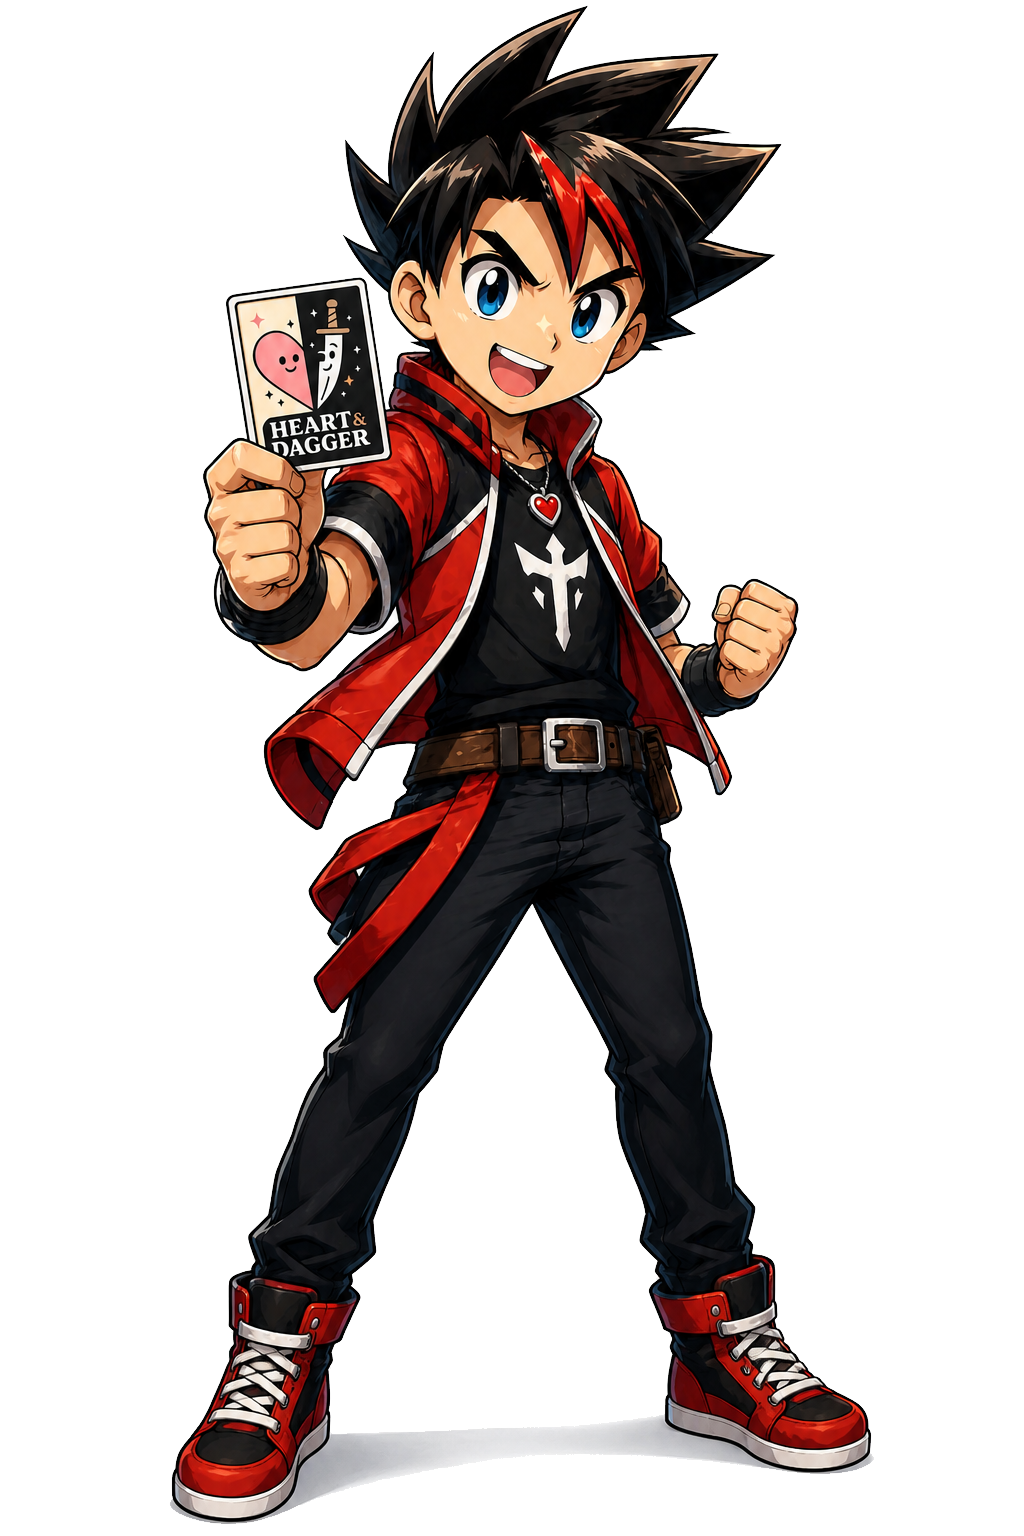
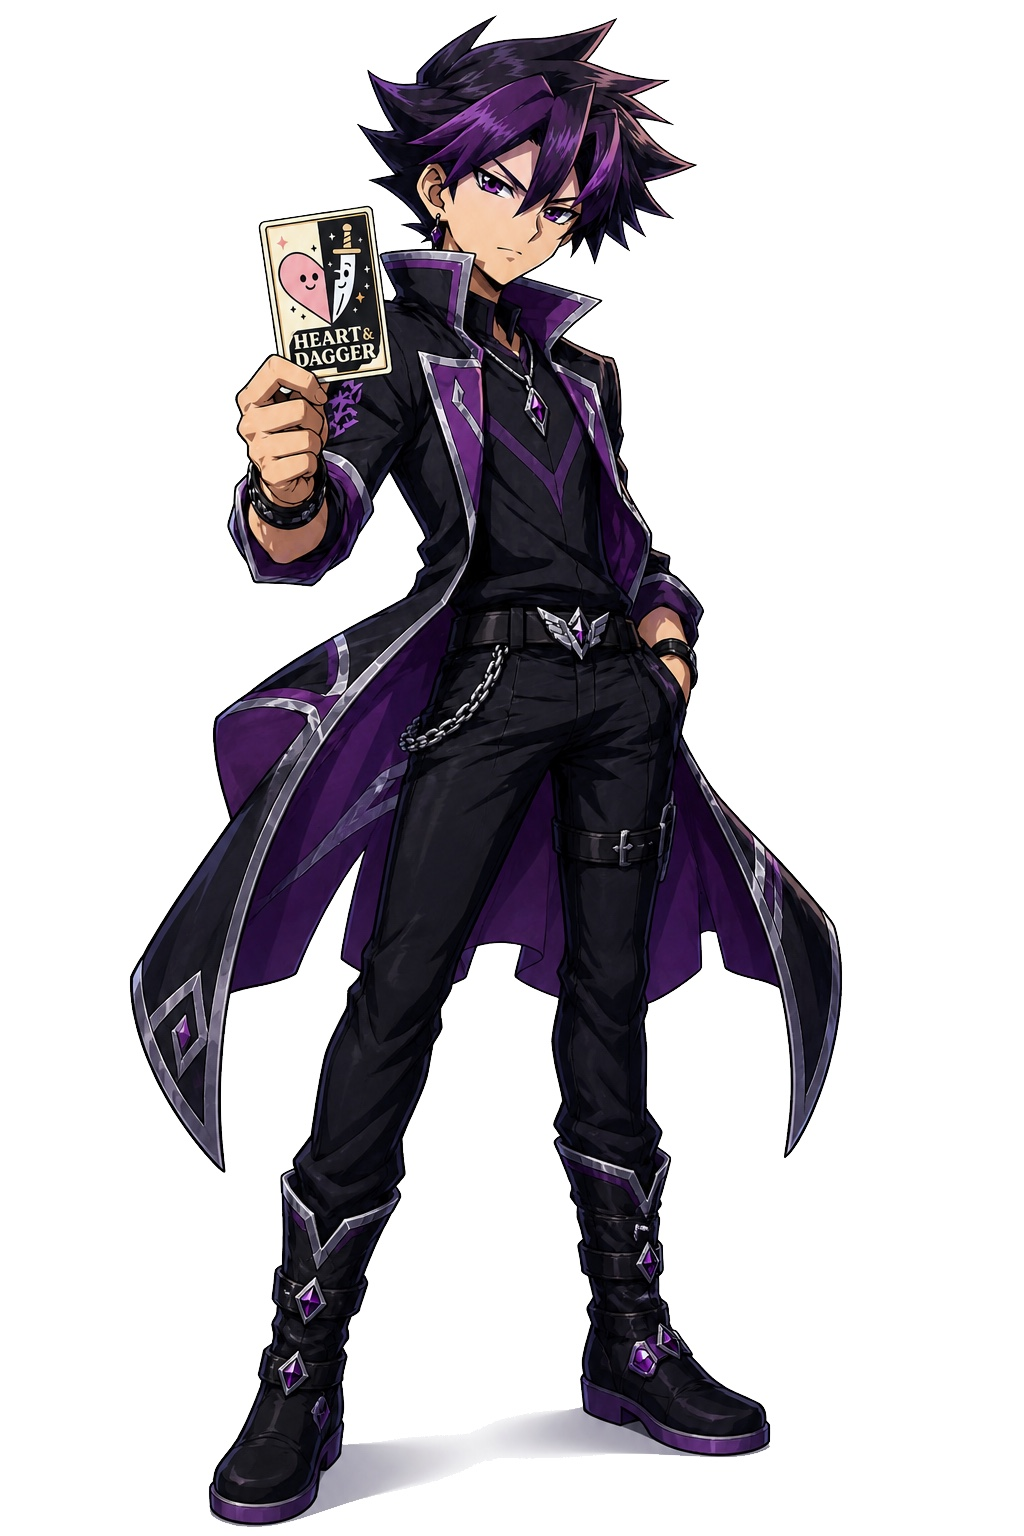
Add files via upload

diff --git a/index.html b/index.html
@@ -52,6 +52,70 @@ html,body{margin:0;width:100%;height:100%;background:#000;font-family:system-ui,
 .stage-status{position:absolute;right:9px;bottom:8px;font-size:11px;background:rgba(0,0,0,.58);border:1px solid rgba(255,255,255,.55);border-radius:999px;padding:4px 8px;text-shadow:0 2px 0 #000;}
 .clear-msg{margin-top:16px;min-height:34px;text-align:center;font-size:18px;font-weight:1000;color:#fff36a;text-shadow:0 2px 0 #000;}
 @media (min-width:680px){.stage-grid{display:grid;grid-template-columns:repeat(2,minmax(0,1fr));gap:12px;}.stage-card{position:relative;aspect-ratio:16/9;border:3px solid rgba(255,255,255,.82);border-radius:18px;background:#111 center/cover no-repeat;box-shadow:0 7px 0 rgba(0,0,0,.55),0 0 18px rgba(255,47,152,.24),inset 0 0 0 2px rgba(0,0,0,.22);color:#fff;padding:0;overflow:hidden;font-weight:1000;cursor:pointer;touch-action:manipulation;}}
+
+.story-actions{
+  display:flex;
+  justify-content:center;
+  gap:12px;
+  margin:10px 0 16px;
+}
+.howto-btn{
+  border:3px solid #111;
+  border-radius:999px;
+  background:#fff7d7;
+  color:#1b1208;
+  font-weight:900;
+  font-size:16px;
+  padding:10px 18px;
+  box-shadow:0 5px 0 #111;
+  cursor:pointer;
+}
+.howto-btn:active{transform:translateY(3px);box-shadow:0 2px 0 #111;}
+.howto-modal{
+  position:fixed;
+  inset:0;
+  display:none;
+  align-items:center;
+  justify-content:center;
+  z-index:50;
+  background:rgba(0,0,0,.58);
+  padding:18px;
+}
+.howto-modal.active{display:flex;}
+.howto-panel{
+  width:min(720px, 94vw);
+  max-height:82vh;
+  overflow:auto;
+  background:#fffdf5;
+  color:#1b1208;
+  border:5px solid #111;
+  border-radius:22px;
+  box-shadow:0 14px 0 rgba(0,0,0,.35);
+  padding:22px;
+  line-height:1.75;
+}
+.howto-panel h2{
+  margin:0 0 12px;
+  font-size:26px;
+  text-align:center;
+}
+.howto-panel ul{
+  margin:10px 0;
+  padding-left:1.4em;
+}
+.howto-close{
+  display:block;
+  margin:18px auto 0;
+  border:3px solid #111;
+  border-radius:999px;
+  background:#fff;
+  color:#111;
+  font-weight:900;
+  font-size:16px;
+  padding:9px 20px;
+  cursor:pointer;
+}
+
 </style>
 </head>
 <body>
@@ -73,11 +137,29 @@ html,body{margin:0;width:100%;height:100%;background:#000;font-family:system-ui,
         <button class="back-btn" onclick="showTitle()">タイトルへ</button>
       </div>
       <p class="story-sub">キャラクターを選んでステージを進めよう。タップするとクリア扱いで次へ進めます。</p>
+      <div class="story-actions"><button class="howto-btn" onclick="openHowto()">ハート＆ダガーの遊び方</button></div>
       <div id="stageGrid" class="stage-grid"></div>
       <div id="clearMsg" class="clear-msg"></div>
     </div>
   </div>
 </section>
+
+
+<div id="howtoModal" class="howto-modal" onclick="closeHowto(event)">
+  <div class="howto-panel" onclick="event.stopPropagation()">
+    <h2>ハート＆ダガーの遊び方</h2>
+    <p>お互いにカードを1枚ずつ出して勝負します。相手の心臓を短剣で刺せば1ポイント獲得です。</p>
+    <ul>
+      <li>短剣 VS 心臓：短剣側が1ポイント</li>
+      <li>短剣 VS 盾：ポイントなし</li>
+      <li>心臓 VS 盾：ポイントなし</li>
+      <li>同じカード同士：ポイントなし</li>
+    </ul>
+    <p>最後まで戦ってポイントが多い方の勝ち。引き分けが確定したと思ったら「ハート＆ダガーコール！」も重要です。</p>
+    <button class="howto-close" onclick="closeHowto()">閉じる</button>
+  </div>
+</div>
+
 
 <audio id="storyBgm" src="./story-bgm.mp3" loop preload="auto"></audio>
 
@@ -114,9 +196,16 @@ function playClick(){
 function startStoryBgm(){
   const bgm=document.getElementById('storyBgm');
   if(!bgm)return;
+  bgm.pause();
+  try{ bgm.currentTime = 0; }catch(e){}
   bgm.volume=0.42;
   bgm.play().catch(()=>{
-    const retry=()=>{bgm.play().catch(()=>{});document.body.removeEventListener('pointerdown',retry);document.body.removeEventListener('click',retry);};
+    const retry=()=>{
+      try{ bgm.currentTime = 0; }catch(e){}
+      bgm.play().catch(()=>{});
+      document.body.removeEventListener('pointerdown',retry);
+      document.body.removeEventListener('click',retry);
+    };
     document.body.addEventListener('pointerdown',retry,{once:true});
     document.body.addEventListener('click',retry,{once:true});
   });
@@ -125,7 +214,20 @@ function stopStoryBgm(){
   const bgm=document.getElementById('storyBgm');
   if(!bgm)return;
   bgm.pause();
+  try{ bgm.currentTime = 0; }catch(e){}
 }
+
+function openHowto(){
+  playClick();
+  const modal=document.getElementById('howtoModal');
+  if(modal)modal.classList.add('active');
+}
+function closeHowto(event){
+  if(event && event.target && event.currentTarget && event.target!==event.currentTarget)return;
+  const modal=document.getElementById('howtoModal');
+  if(modal)modal.classList.remove('active');
+}
+
 function showTitle(){playClick();stopStoryBgm();document.getElementById('storyScreen').classList.remove('active');document.getElementById('titleScreen').classList.add('active');}
 function goStory(){playClick();renderStages();document.getElementById('titleScreen').classList.remove('active');document.getElementById('storyScreen').classList.add('active');startStoryBgm();}
 function goBattle(){playClick();sessionStorage.setItem("hd_freebattle_entry_time", String(Date.now()));setTimeout(()=>{location.href="./freebattle.html";},170);}
